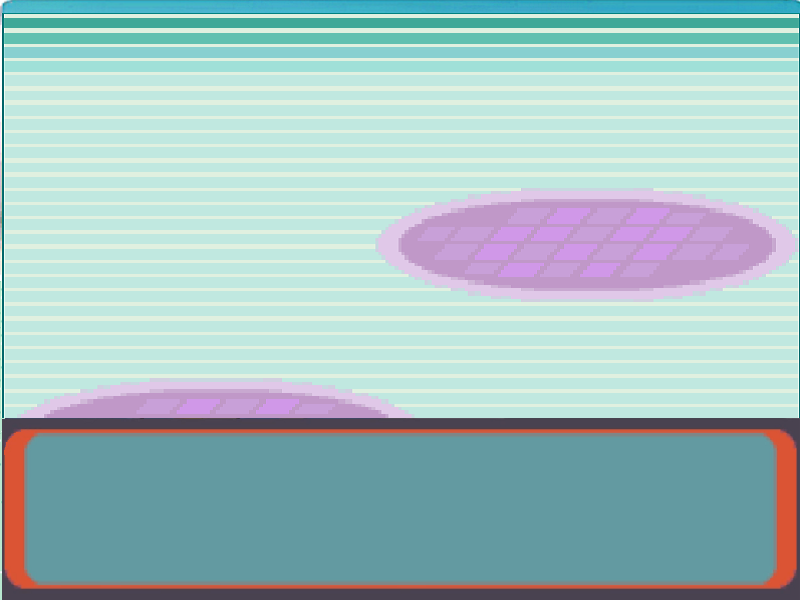
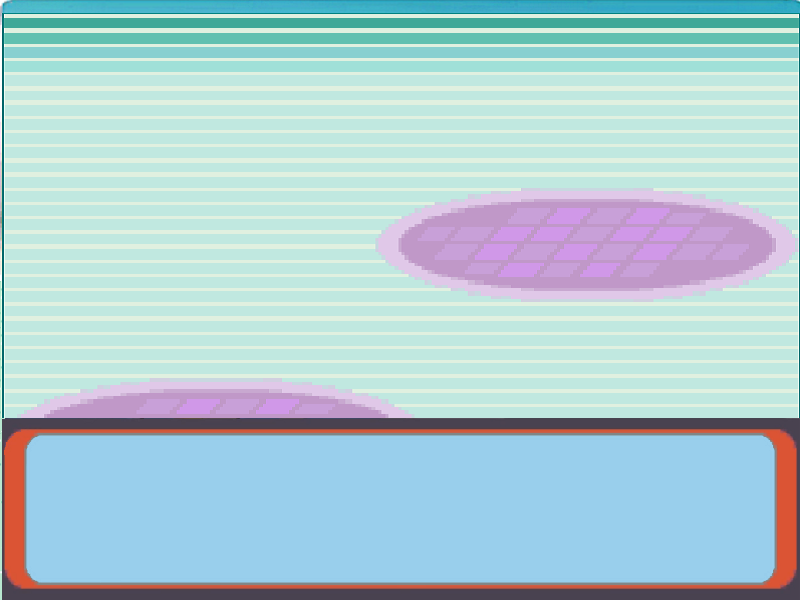
added new battle messages, changed background color

Changed region(s): [[0.0312, 0.72, 0.9688, 0.99]]

diff --git a/lp2/PokemonV-Client/src/com/grupox/pokemonv/controller/manager/BattleManager.java b/lp2/PokemonV-Client/src/com/grupox/pokemonv/controller/manager/BattleManager.java
@@ -118,7 +118,7 @@ public class BattleManager extends Renderable {
         P2_IDLE, P2_ATTACK_FIRST, P2_ATTACK_SECOND, P2_BAG, P2_GIVEUP,
         P1_DEAD, P2_DEAD, P1_HEAL, P2_HEAL, P1_CAPTURE,POKEMON_CAPTURED,
         P1_ALREADY_HEALED,P1_NOT_ENOUGH_POKEBALLS,P1_NOT_ENOUGH_POTIONS,
-        POKEMON_NOT_WEAK,MAKE_DECISION,
+        POKEMON_NOT_WEAK,MAKE_DECISION,YOU_CANT_CATCH,YOU_CANT_GIVEUP,
         TYPE_ATTACK_MENU, BAG_MENU
     };
     
@@ -212,7 +212,7 @@ public class BattleManager extends Renderable {
         } catch (Exception exp) {
         }
         state = State.P1_IDLE;
-        menu = new BattleMenu(input, topOffset, rightOffset, game);
+        menu = new BattleMenu(input, topOffset, rightOffset,battleAgainstPlayer, game);
         attackMenu = new TypeAttackMenuP1(input, topOffsetAttack, rightOffsetAttack, attack1_name, attack2_name, game);
         bagMenu = new BagMenu(player, 20, rightOffset,battleAgainstPlayer, game);
         captureImages = new ArrayList<>();
@@ -288,7 +288,7 @@ public class BattleManager extends Renderable {
         } catch (Exception exp) {
         }
         state = State.P1_IDLE;
-        menu = new BattleMenu(input, topOffset, rightOffset, game);
+        menu = new BattleMenu(input, topOffset, rightOffset,battleAgainstPlayer, game);
         attackMenu = new TypeAttackMenuP1(input, topOffsetAttack, rightOffsetAttack, attack1_name, attack2_name, game);
         bagMenu = new BagMenu(player, 20, rightOffset,battleAgainstPlayer, game);
         decisionMenu = new DecisionBattleMenu(player, 425, Game.WIDTH / 1000, game);
@@ -387,6 +387,16 @@ public class BattleManager extends Renderable {
     }
     public void tick() {
         switch (state) {
+            case YOU_CANT_CATCH:
+                if (numTicks == NUM_TICKS_WAIT) {
+                    state = State.BAG_MENU;
+                }
+                break;
+            case YOU_CANT_GIVEUP:
+                if (numTicks == NUM_TICKS_WAIT) {
+                    state = State.P1_IDLE;
+                }
+                break;
             case BAG_MENU:
                 if (vidaPok1==initialLifePok1)
                     alreadyHealed = true;
@@ -394,22 +404,22 @@ public class BattleManager extends Renderable {
                 bagMenu.tick();
                 break;
             case P1_ALREADY_HEALED:
-                if (numTicks == NUM_TICKS_WAIT-1) {
+                if (numTicks == NUM_TICKS_WAIT) {
                     state = State.BAG_MENU;
                 }
                 break;
             case P1_NOT_ENOUGH_POKEBALLS:
-                if (numTicks == NUM_TICKS_WAIT-1) {
+                if (numTicks == NUM_TICKS_WAIT) {
                     state = State.BAG_MENU;
                 }
                 break;
             case P1_NOT_ENOUGH_POTIONS:
-                if (numTicks == NUM_TICKS_WAIT-1) {
+                if (numTicks == NUM_TICKS_WAIT) {
                     state = State.BAG_MENU;
                 }
                 break;
             case POKEMON_NOT_WEAK:
-                if (numTicks == NUM_TICKS_WAIT-1) {
+                if (numTicks == NUM_TICKS_WAIT) {
                     state = State.BAG_MENU;
                 }
                 break;
@@ -549,7 +559,6 @@ public class BattleManager extends Renderable {
                         System.out.println("El usuario 2 realizo HUIR");
                         state = State.P2_GIVEUP;
                         numTicks = 0;
-                        //game.setState(Game.State.MAP); //Finaliza la batalla pokemon
                     } else if (response.equals("curarse")) {
                         System.out.println("El usuario 2 usó MOCHILA");
                         state = State.P2_HEAL;
@@ -645,6 +654,12 @@ public class BattleManager extends Renderable {
         if ((state == State.POKEMON_NOT_WEAK) && (game.getNumTicks() == 58)) {
             numTicks++;
         }
+        if ((state == State.YOU_CANT_CATCH) && (game.getNumTicks() == 58)) {
+            numTicks++;
+        }
+        if ((state == State.YOU_CANT_GIVEUP) && (game.getNumTicks() == 58)) {
+            numTicks++;
+        }
         
         if (endBattle) {
             game.setState(Game.State.MAP);
@@ -706,6 +721,7 @@ public class BattleManager extends Renderable {
         Font.getInstance().drawString(nombrePokPlayer2, g, 120, 40 + 55);
 
         switch (state) {
+            
             case P1_HEAL:
                 break;
             case P2_HEAL:
@@ -745,6 +761,13 @@ public class BattleManager extends Renderable {
                 Font.getInstance().drawString("YOU DON'T HAVE ANY POKEBALLS.", g, 30, 460);
                 Font.getInstance().drawString("THERE ARE SO MANY AROUND HERE...", g, 30, 525);
                 //Font.getInstance().drawString("YOU DON'T HAVE ANY POKEBALLS. THERE ARE SO MANY AROUND HERE...", g, 30, 475);
+                break;
+            case YOU_CANT_CATCH:
+                bagMenu.render(g);
+                Font.getInstance().drawString("YOU CANT CATCH OTHER TRAINER'S POKEMON..", g, 30, 475);
+                break;
+            case YOU_CANT_GIVEUP:
+                Font.getInstance().drawString("YOU CANT GIVE UP AGAINST OTHER TRAINER", g, 30, 475);
                 break;
             case P1_NOT_ENOUGH_POTIONS:
                 bagMenu.render(g);
@@ -788,7 +811,11 @@ public class BattleManager extends Renderable {
                 Font.getInstance().drawString("YOUR OPPONENT HAS JUST USED THE BAG", g, 30, 475);
                 break;
             case P2_GIVEUP:
-                Font.getInstance().drawString("YOUR OPPONENT RAN AWAY, SO.. YOU WON", g, 30, 475);
+                if (battleAgainstPlayer)
+                    Font.getInstance().drawString("YOUR OPPONENT RAN AWAY, SO.. YOU WON", g, 30, 475);
+                else 
+                    Font.getInstance().drawString("THE POKEMON HAS JUST ESCAPED...", g, 30, 475);
+                
                 break;
             case P2_DEAD:
                 Font.getInstance().drawString("YOU'VE DEFEATED "+nombrePokPlayer2 , g, 30, 475);

diff --git a/lp2/PokemonV-Client/src/com/grupox/pokemonv/controller/menu/BattleMenu.java b/lp2/PokemonV-Client/src/com/grupox/pokemonv/controller/menu/BattleMenu.java
@@ -9,13 +9,14 @@ public class BattleMenu extends DoubleColumnBattle {
     /* Attributes */
     private Game game;
     private final int attackIndex, bagIndex, giveUpIndex;
+    private boolean battleAgainstPlayer;
 
     /* Constructors */
-    public BattleMenu(InputHandler input, int topOffset, int rightOffset, Game game) {
+    public BattleMenu(InputHandler input, int topOffset, int rightOffset, boolean value, Game game) {
         super(input, topOffset, rightOffset);
 
         this.game = game;
-
+        this.battleAgainstPlayer = value;
         attackIndex = this.addItem("Atacar");
         bagIndex = this.addItem("Mochila");
         giveUpIndex = this.addItem("Huir");
@@ -31,8 +32,14 @@ public class BattleMenu extends DoubleColumnBattle {
             } else if (selectedIndex == bagIndex) {
                 game.getBattleManager().setState(BattleManager.State.BAG_MENU);
             } else if (selectedIndex == giveUpIndex) {
-                game.getBattleManager().setState(BattleManager.State.P1_GIVEUP);
-                game.getBattleManager().inicializeTicks();
+                if (battleAgainstPlayer == false) {
+                    game.getBattleManager().setState(BattleManager.State.P1_GIVEUP);
+                    game.getBattleManager().inicializeTicks();
+                } else {
+                    game.getBattleManager().setState(BattleManager.State.YOU_CANT_GIVEUP);
+                    game.getBattleManager().inicializeTicks();
+                }
+
             }
         }
     }

diff --git a/lp2/PokemonV-Client/src/com/grupox/pokemonv/controller/menu/BagMenu.java b/lp2/PokemonV-Client/src/com/grupox/pokemonv/controller/menu/BagMenu.java
@@ -69,6 +69,10 @@ public class BagMenu extends QuantityMenu {
                         }
 
                     }
+                    else {
+                        game.getBattleManager().setState(BattleManager.State.YOU_CANT_CATCH);
+                        game.getBattleManager().inicializeTicks();
+                    }
                 } else if (selectedIndex == potionsIndex) {
                     if (!game.getBattleManager().isAlreadyHealed()) {
                         int dis = player.getPotions().getQuantity() - 1;
